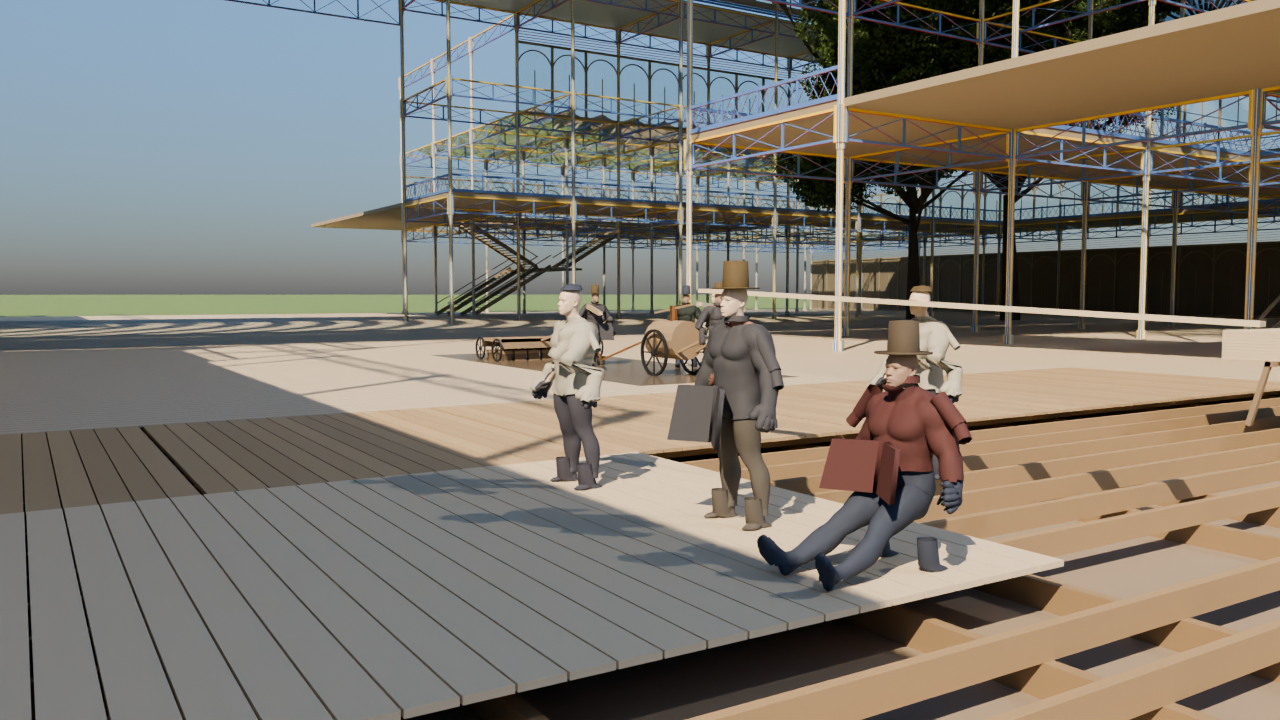
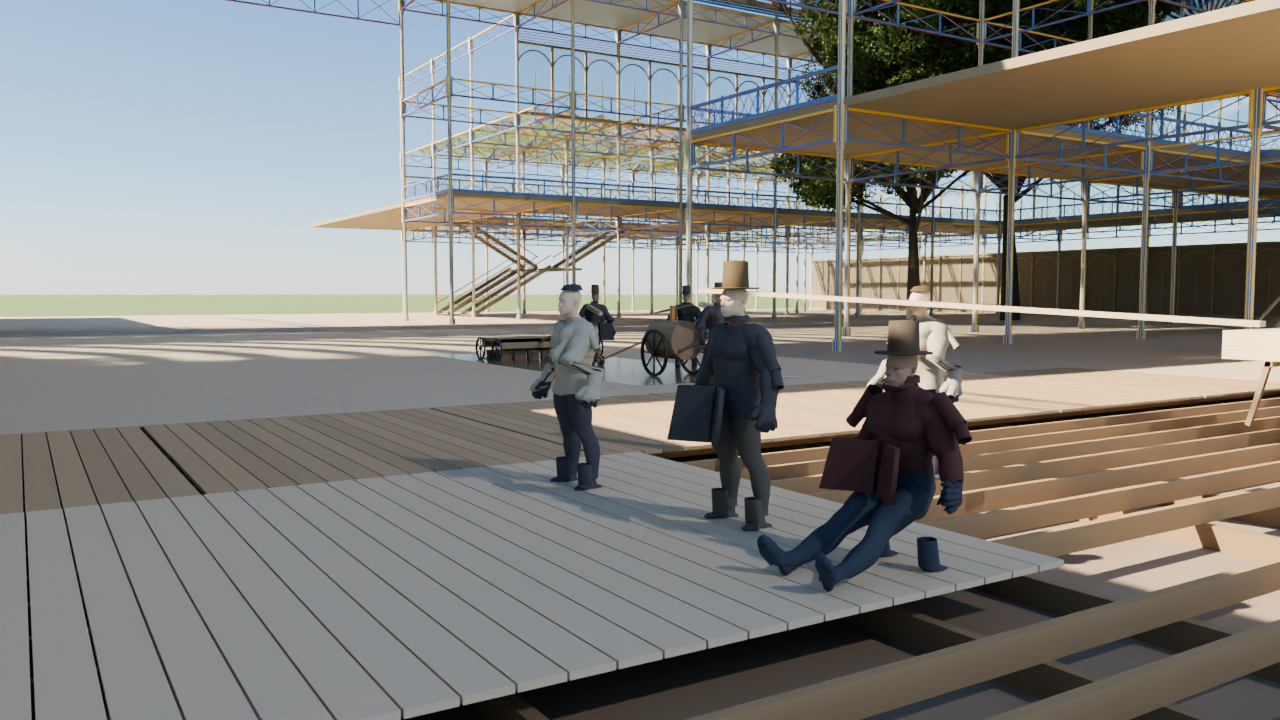
people v3.3: statue/plinth exclusion; keep CP020/CP021 renders
Vendor people_lib 3.3 (no bare FIGURE; skip statues and plinth figures).
Re-render CP020_floor_start and CP021_doors_start with keep-lighting.

diff --git a/course-models/crystal-palace-1851-fitout-grok/scripts/people_lib.py b/course-models/crystal-palace-1851-fitout-grok/scripts/people_lib.py
@@ -1,4 +1,4 @@
-"""crystal-palace-people v3.2 — HBM base humans + period-correct modelled garments.
+"""crystal-palace-people v3.3 — HBM base humans + period-correct modelled garments.
 
 Drop-in API (compatible with v2 callers):
   person_mesh(name, kind, mats, FT=0.3048, style=None, pose=None, lod=None, seed=None)
@@ -10,6 +10,7 @@ decimated LODs under people/vendor/bases/. Garments are modelled shells
 police tunic) — not lathe primitives. Proportions: head ~1/7.5 height;
 1850s crowd height 5'0"–5'10". Matte period colours; no white hats.
 Crowd mix: ~42% ladies; crinoline hem ~0.9–1.0 m with waist taper; mid-tone skirts.
+Exclude statues/sculptures/busts and any figure on a plinth or pedestal (keep authored marble/bronze).
 """
 from __future__ import annotations
 import hashlib, math, os, random
@@ -20,7 +21,7 @@ import bpy
 import bmesh
 from mathutils import Matrix, Vector, Euler
 
-PEOPLE_VERSION = "3.2"
+PEOPLE_VERSION = "3.3"
 PEOPLE_TAG = "cpl_people_v3"
 
 _HERE = Path(__file__).resolve().parent
@@ -1173,16 +1174,120 @@ def catalogue():
 # ---------------------------------------------------------------------------
 
 _FIGURE_PREFIXES = (
-    "CROWD", "VIS_", "PERSON", "FIG_", "FIGURE", "PEOPLE", "GENT", "LADY",
+    "CROWD", "VIS_", "PERSON", "FIG_", "PEOPLE", "GENT", "LADY",
     "MAN_", "WOMAN", "CHILD", "BOY_", "GIRL", "POLICE", "SAILOR", "SOLDIER",
     "KWORKER", "WORKER", "NAVY", "FIRE", "GUEST", "STAFF",
     "FB_HERO", "FB_VAR", "PV57_", "CROWD36", "LFB_",
 )
+# Note: bare "FIGURE" removed — it false-matched STATUE_*_FIGURE names.
 _FIGURE_KINDS = {"figure", "worker", "crowd", "person", "human", "visitor"}
+_STATUE_KINDS = {"statue", "sculpture", "sculpt", "bust", "plinth", "pedestal",
+                 "monument", "equestrian", "relief", "ornament"}
+_STATUE_NAME_TOKENS = (
+    "STATUE", "SCULPT", "SCULPTURE", "EQUEST", "BUST_", "_BUST",
+    "MONUMENT", "RELIEF_", "MARBLE_FIG", "BRONZE_FIG",
+)
+_STATUE_MAT_TOKENS = ("gt_marble", "gt_bronze", "marble", "bronze")
+_CLOTHING_MAT_TOKENS = ("coat", "dress", "skirt", "trou", "skin", "hat", "bonnet",
+                        "shawl", "bodice", "smock", "shirt", "waist")
+_PLINTH_NAME_TOKENS = ("PLINTH", "PEDESTAL", "PEDEST")
+
+
+def _mats_blob(ob: bpy.types.Object) -> str:
+    if ob.type != "MESH" or not ob.data:
+        return ""
+    return " ".join((m.name or "").lower() for m in (ob.data.materials or []) if m)
+
+
+def _name_is_statue(name: str) -> bool:
+    n = name.upper()
+    if any(tok in n for tok in _STATUE_NAME_TOKENS):
+        return True
+    # sculpture groups (equestrian / marble groups) — not crowd
+    if n.startswith("GROUP_") and any(t in n for t in ("HORSE", "EQUEST", "M38", "SCULPT", "STATUE")):
+        return True
+    return False
+
+
+def _has_statue_material(ob: bpy.types.Object) -> bool:
+    mats = _mats_blob(ob)
+    if not mats:
+        return False
+    if any(c in mats for c in _CLOTHING_MAT_TOKENS):
+        return False
+    return any(t in mats for t in _STATUE_MAT_TOKENS)
+
+
+_PLINTH_CACHE = None  # list[(obj, loc, top_z)] rebuilt per swap
+
+
+def _plinth_cache():
+    global _PLINTH_CACHE
+    if _PLINTH_CACHE is not None:
+        return _PLINTH_CACHE
+    out = []
+    for p in bpy.data.objects:
+        if p.type != "MESH":
+            continue
+        pn = p.name.upper()
+        if not any(t in pn for t in _PLINTH_NAME_TOKENS):
+            continue
+        pl = p.matrix_world.translation
+        out.append((p, pl, pl.z + max(p.dimensions.z, 0.05)))
+    _PLINTH_CACHE = out
+    return out
+
+
+def _rests_on_plinth(ob: bpy.types.Object) -> bool:
+    """True if parent/name is a plinth/pedestal, or a plinth sits under the object's feet."""
+    n = ob.name.upper()
+    if any(t in n for t in _PLINTH_NAME_TOKENS):
+        # the plinth mesh itself is not a crowd figure
+        return True
+    parent = ob.parent
+    if parent is not None:
+        pn = parent.name.upper()
+        if any(t in pn for t in _PLINTH_NAME_TOKENS) or _name_is_statue(parent.name):
+            return True
+    # geometric: plinth within 2.5 m XY whose top is near object origin Z
+    loc = ob.matrix_world.translation
+    for p, pl, top_z in _plinth_cache():
+        if p is ob:
+            continue
+        dxy = (pl.x - loc.x) ** 2 + (pl.y - loc.y) ** 2
+        if dxy > 6.25:  # 2.5^2
+            continue
+        if abs(top_z - loc.z) < 0.75 or (pl.z < loc.z and (loc.z - top_z) < 0.4):
+            return True
+    return False
+
+
+def _is_statue_or_plinth_figure(ob: bpy.types.Object) -> bool:
+    """Authored marble/bronze statues and any figure standing on a plinth/pedestal."""
+    if ob.type != "MESH":
+        return False
+    pk = (ob.get("part_kind") or ob.get("kind") or "").lower()
+    if pk in _STATUE_KINDS:
+        return True
+    if _name_is_statue(ob.name):
+        return True
+    if _has_statue_material(ob) and (
+        _rests_on_plinth(ob) or ob.matrix_world.translation.z > 1.0
+    ):
+        return True
+    # crowd/person proxies that were placed on a plinth must stay authored
+    if _rests_on_plinth(ob) and pk in _FIGURE_KINDS.union({"", "statue"}):
+        # Only treat as statue if elevated / marble-ish / statue-named sibling
+        if ob.matrix_world.translation.z > 0.9 or _has_statue_material(ob):
+            return True
+    return False
 
 
 def _is_figure(ob: bpy.types.Object) -> bool:
     if ob.type != "MESH":
+        return False
+    # Never swap statues, sculptures, or figures on plinths/pedestals
+    if _is_statue_or_plinth_figure(ob):
         return False
     if ob.get("cpl_people") in (PEOPLE_TAG, "cpl_people_v2", "cpl_people_v1"):
         return True
@@ -1223,6 +1328,8 @@ def _infer_pose(ob, seed: int) -> str:
 def swap_scene_people(era: str = "1851", camera=None, seed: int = 0,
                       max_hero: int = 10, max_mid: int = 60) -> Dict[str, Any]:
     """Replace baked lathe/v2 figures with v3 HBM+garment people. Does not save."""
+    global _PLINTH_CACHE
+    _PLINTH_CACHE = None  # rebuild for this blend
     figs = [o for o in bpy.data.objects if _is_figure(o)]
     if not figs:
         return {"swapped": 0, "version": PEOPLE_VERSION}
